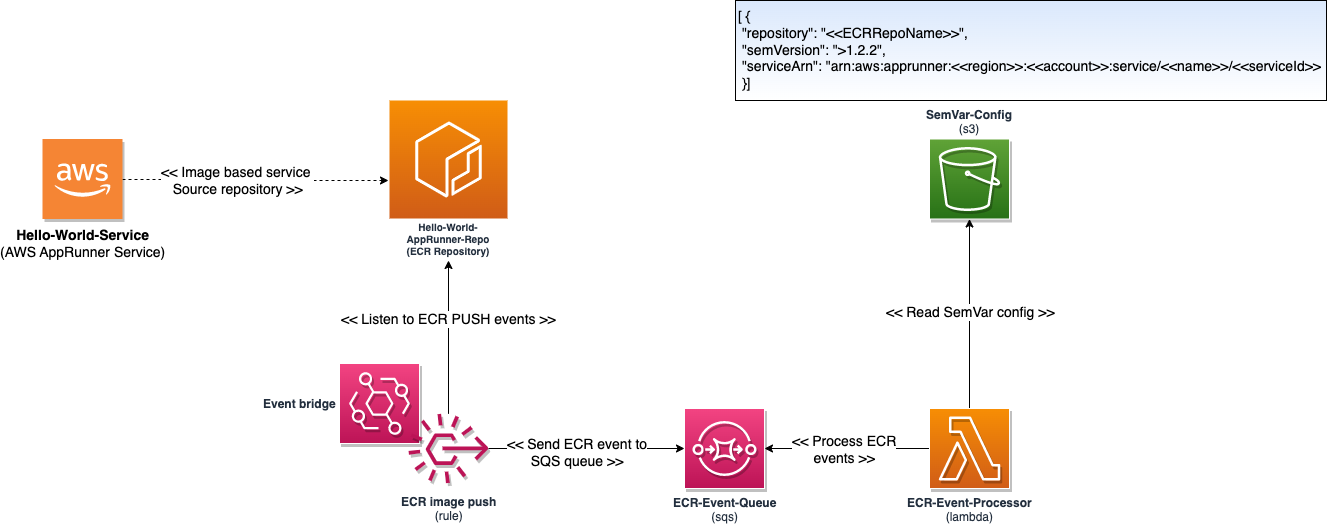
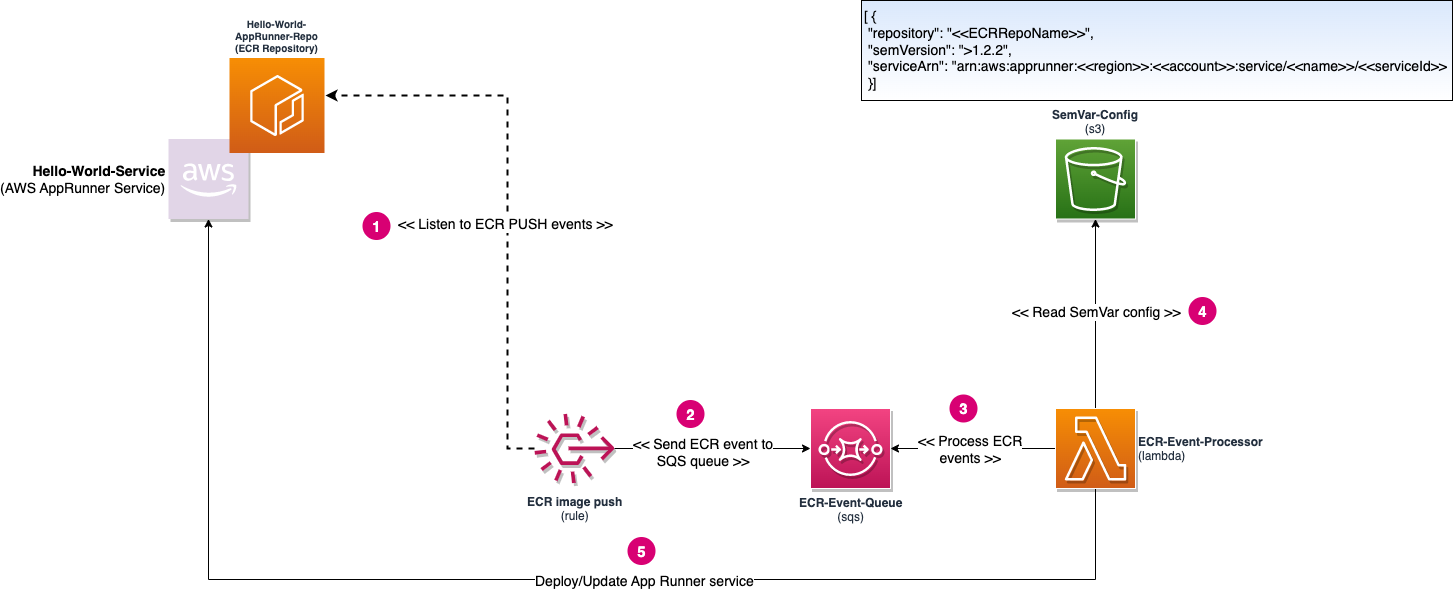
Review comments

diff --git a/README.md b/README.md
@@ -144,7 +144,31 @@ docker tag hello-world-apprunner-repo:latest <<account>>.dkr.ecr.us-east-1.amazo
 docker push <<account>>.dkr.ecr.us-east-1.amazonaws.com/hello-world-apprunner-repo:1.2.3
 ```
 
-5. Create a new App Runner service using the ECR repository that was created in the previous step.
+5. Create a App Runner access role and attach ECR access policy to it.
+
+```bash
+export TP_FILE=$(mktemp)
+export ROLE_NAME=AppRunnerSemVarAccessRole
+cat <<EOF | tee $TP_FILE
+{
+  "Version": "2012-10-17",
+  "Statement": [
+    {
+      "Effect": "Allow",
+      "Principal": {
+        "Service": "build.apprunner.amazonaws.com"
+      },
+      "Action": "sts:AssumeRole"
+    }
+  ]
+}
+EOF
+aws iam create-role --role-name $ROLE_NAME --assume-role-policy-document file://$TP_FILE
+rm $TP_FILE
+aws iam attach-role-policy --role-name $ROLE_NAME --policy-arn arn:aws:iam::aws:policy/service-role/AWSAppRunnerServicePolicyForECRAccess
+```
+
+6. Create a new App Runner service using the ECR repository that was created in the previous step.
 
 ```bash
 aws apprunner create-service --cli-input-json file://input.json
@@ -156,10 +180,10 @@ Contents of `input.json`:
     "ServiceName": "hello-world-service",
     "SourceConfiguration": {
         "AuthenticationConfiguration": {
-            "AccessRoleArn": "arn:aws:iam::<<region>>:role/my-ecr-role" # Replace with the ARN that has access to the ECR repository
+            "AccessRoleArn": "arn:aws:iam::${AWS_REGION}:role/${ROLE_NAME}"
         },        
         "ImageRepository": {
-            "ImageIdentifier": "<<account>>.dkr.ecr.us-east-1.amazonaws.com/hello-world-apprunner-repo:1.2.3",
+            "ImageIdentifier": "${AWS_ACCOUNT_ID}.dkr.ecr.us-east-1.amazonaws.com/hello-world-apprunner-repo:1.2.3",
             "ImageConfiguration": {
                 "Port": "8000"
             },
@@ -258,6 +282,8 @@ Run the following command from the root directory to delete the stack:
 
 ```bash
 cdk destroy
+aws ecr delete-repository --repository-name hello-world-apprunner-repo --force
+aws iam delete-role --role-name ${ROLE_NAME}
 ```
 
 ---
@@ -268,7 +294,8 @@ Here are some essential items to consider before using this solution:
 
 * The solution uses AWS App Runner APIs to update and deploy the new version of the application, so it is not a fully managed solution. The customer needs to manage the AWS CDK stack and the Lambda function.
 * The solution does not support tracking `latest` tag. If the customer wants to track the latest or fixed tag, we recommend using the native CI/CD support in App Runner.
-* The solution uses various AWS services (like Eventbridge, SQS, Lambda) to track the semantic version pattern. It can get expensive if the customer tracks multiple App Runner services and ECR repositories.
+* The solution uses various AWS services (like Eventbridge, SQS, Lambda) to track the semantic version pattern. As the solution relays on Eventbridge events, SQS messages and Lambda invocations to track the semantic version, it can get expensive if the customer tracks multiple App Runner services and ECR repositories as it would result in multiple events, SQS messages and invocations.
+It can get expensive if the customer tracks multiple App Runner services and ECR repositories.
 * The code is not production ready and is provided as is. The customer should test the solution in a non-production environment before using it.
 * The solution does not support tracking multiple App Runner services using the same repository. If the customer wants to use the same repository for multiple App Runner services based on the semantic version, then the solution code needs to get updated to support this use case.
 
